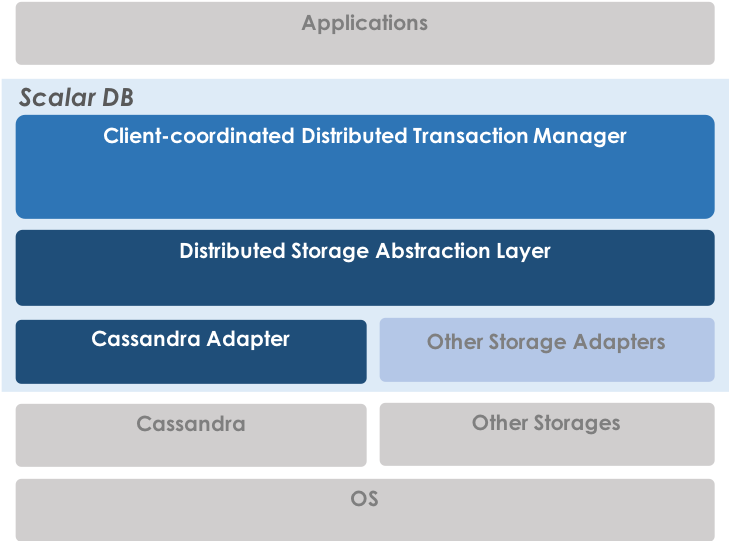
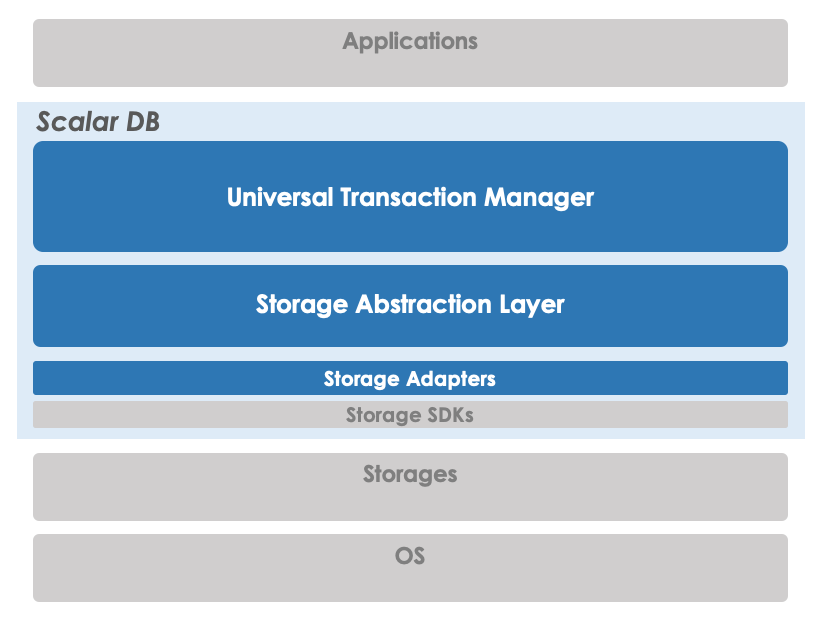
update

diff --git a/docs/design.md b/docs/design.md
@@ -16,9 +16,7 @@ The primary design goals of Scalar DB are high availability, horizontal scalabil
 
 ## High-level Architecture
 
-Scalar DB is composed of distributed storage abstraction layer and client-coordinated distributed transaction manager.
-Distributed storage abstraction has storage implementation specific adapters such as Cassandra adapter.
-Another storage implementation can be added by creating an adapter which follows the abstraction interface.
+Scalar DB is composed of universal transaction manager, storage abstraction, and storage adapters. Universal transaction manager and storage abstraction are storage-agnostic. On the other hand, storage adapters are storage-specific so there is an adapter for each storage implementation.
 
 <p align="center">
 <img src="https://github.com/scalar-labs/scalardb/raw/master/docs/images/software_stack.png" width="440" />
@@ -51,7 +49,7 @@ Range scan is only supported for clustering-key access within the same partition
 
 ### Storage
 
-As of writing this, Scalar DB supports only Cassandra storage as a storage implementation. More correctly, it supports Cassandra java-driver API. Thus Cassandra java-driver compatible storage systems, such as ScyllaDB and Azure Cosmos DB, can potentially also be used. The storage abstraction assumes the following features/properties, which most recent distributed storages have:
+As of writing this, Scalar DB supports Cassandra and Cosmos DB as a storage implementation. More correctly, it supports Cassandra java-driver API. Thus Cassandra java-driver compatible storage systems, such as ScyllaDB and Azure Cosmos DB, can potentially also be used. The storage abstraction assumes the following features/properties, which most recent distributed storages have:
 
 - Atomic CRUD operations (each single-record operation needs to be atomic)
 - Sequential consistency support
@@ -62,19 +60,13 @@ Please see the javadoc for more details and usage.
 
 ### Transaction
 
-Scalar DB executes transactions in a fully client-coordinated way so that it can do master-less transactions, which achieves almost linear scalability and high availability (especially when it is integrated with master-less Cassandra).
+Scalar DB executes transactions in a fully client-coordinated way so that it can do master-less transactions, which achieves almost linear scalability and high availability (especially when it is integrated with scalable and highly available storages).
 It basically follows the Cherry Garcia protocol proposed in [3]. More specifically, Scalar DB achieves scalable distributed transaction by utilizing atomic conditional mutation for managing transaction state and storing WAL (Write-Ahead-Logging) records in distributed fashion in each record by using meta-data ability.
 It also has some similarity to paxos-commit [4].
 
-The isolation levels it suports are Snapshot Isolation (SI) and Serializable.
-SI in Scalar DB is a variant of SI defined in ANSI and similar to RCSI (Read Committed Snapshot Isolation) used in SQL Server. It doesn't create a global snapshot so Read Skew could happen in certain cases in addition to the usual SI anomalies such as Write Skew anomaly and Read-Only Transaction anomaly. Serializable is achieved basically by converting reads into writes to remove anti-dependencies, which is the root cause of the anomalies in SI.
-
+Scalar DB supports Snapshot Isolation (SI) and Serializable as Isolation levels.
+SI in Scalar DB is a variant of SI defined in ANSI and similar to RCSI (Read Committed Snapshot Isolation) used in SQL Server. It doesn't create a global snapshot so Read Skew could happen in certain cases in addition to the usual SI anomalies such as Write Skew anomaly and Read-Only Transaction anomaly. Serializable is achieved with two strategies; Extra-write and Extra-read, which both avoid anti-dependency that is the root cause of the anomalies in SI. Extra-write basically converts reads into writes to remove anti-dependencies, and Extra-read re-read its read set in the commit phase to actually check if there is a anti-dependency.
 Please see the javadoc for more details and usage.
-
-## Future Work
-
-* Support Hbase for another storage implementation for more performance.
-* Utilize deterministic nature of [Scalar DL](https://github.com/scalar-labs/scalardl) (ledger middleware used for storing ledger information with Scalar DB) to avoid heavy-weight global consensus for linearizability and serializability.
 
 ## References
 
@@ -82,3 +74,9 @@ Please see the javadoc for more details and usage.
 - [2] Fay Chang , Jeffrey Dean , Sanjay Ghemawat , Wilson C. Hsieh , Deborah A. Wallach , Mike Burrows , Tushar Chandra , Andrew Fikes , Robert E. Gruber, Bigtable: A Distributed Storage System for Structured Data, ACM Transactions on Computer Systems (TOCS), v.26 n.2, p.1-26, June 2008.
 - [3] A. Dey, A. Fekete, U. Röhm, "Scalable Distributed Transactions across Heterogeneous Stores", IEEE 31th International Conference on Data Engineering (ICDE), 2015.
 - [4] Jim Gray , Leslie Lamport, Consensus on transaction commit, ACM Transactions on Database Systems (TODS), v.31 n.1, p.133-160, March 2006.
+
+
+## Further documentation
+
+- [Scalar DB: A library that makes non-ACID databases ACID-compliant](https://www.slideshare.net/scalar-inc/scalar-db-a-library-that-makes-nonacid-databases-acidcompliant) at Database Lounge Tokyo #6 2020
+- [Transaction Management on Cassandra](https://www.slideshare.net/scalar-inc/transaction-management-on-cassandra) at Next Generation Cassandra Conference / ApacheCon NA 2019
